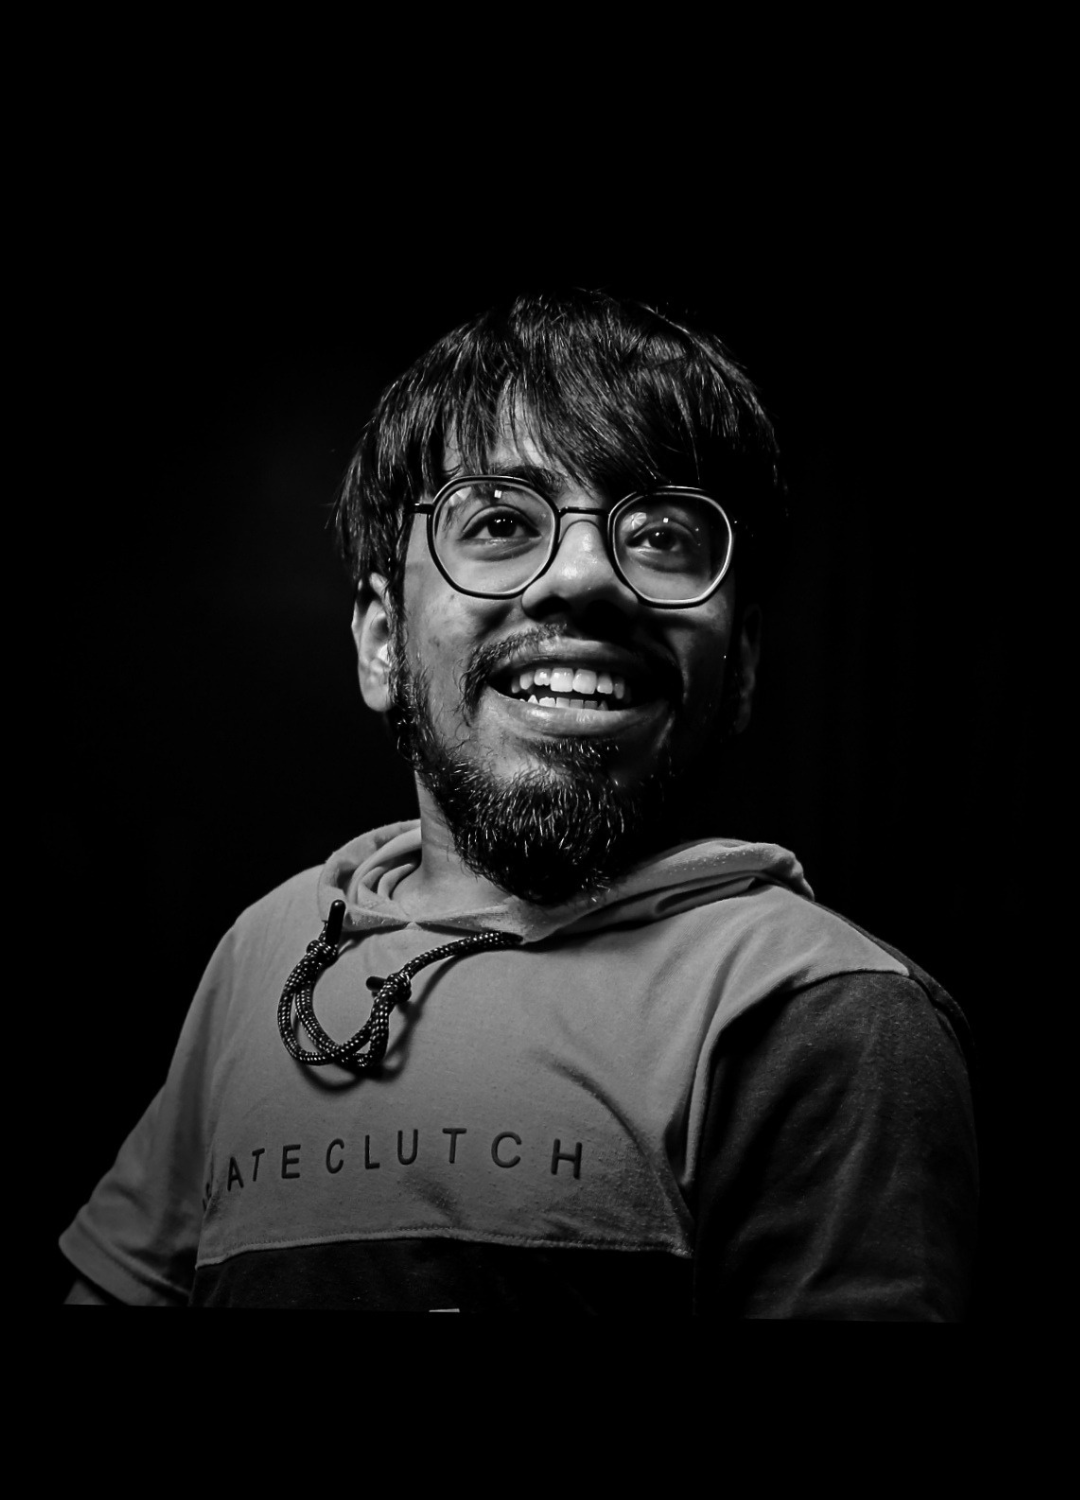
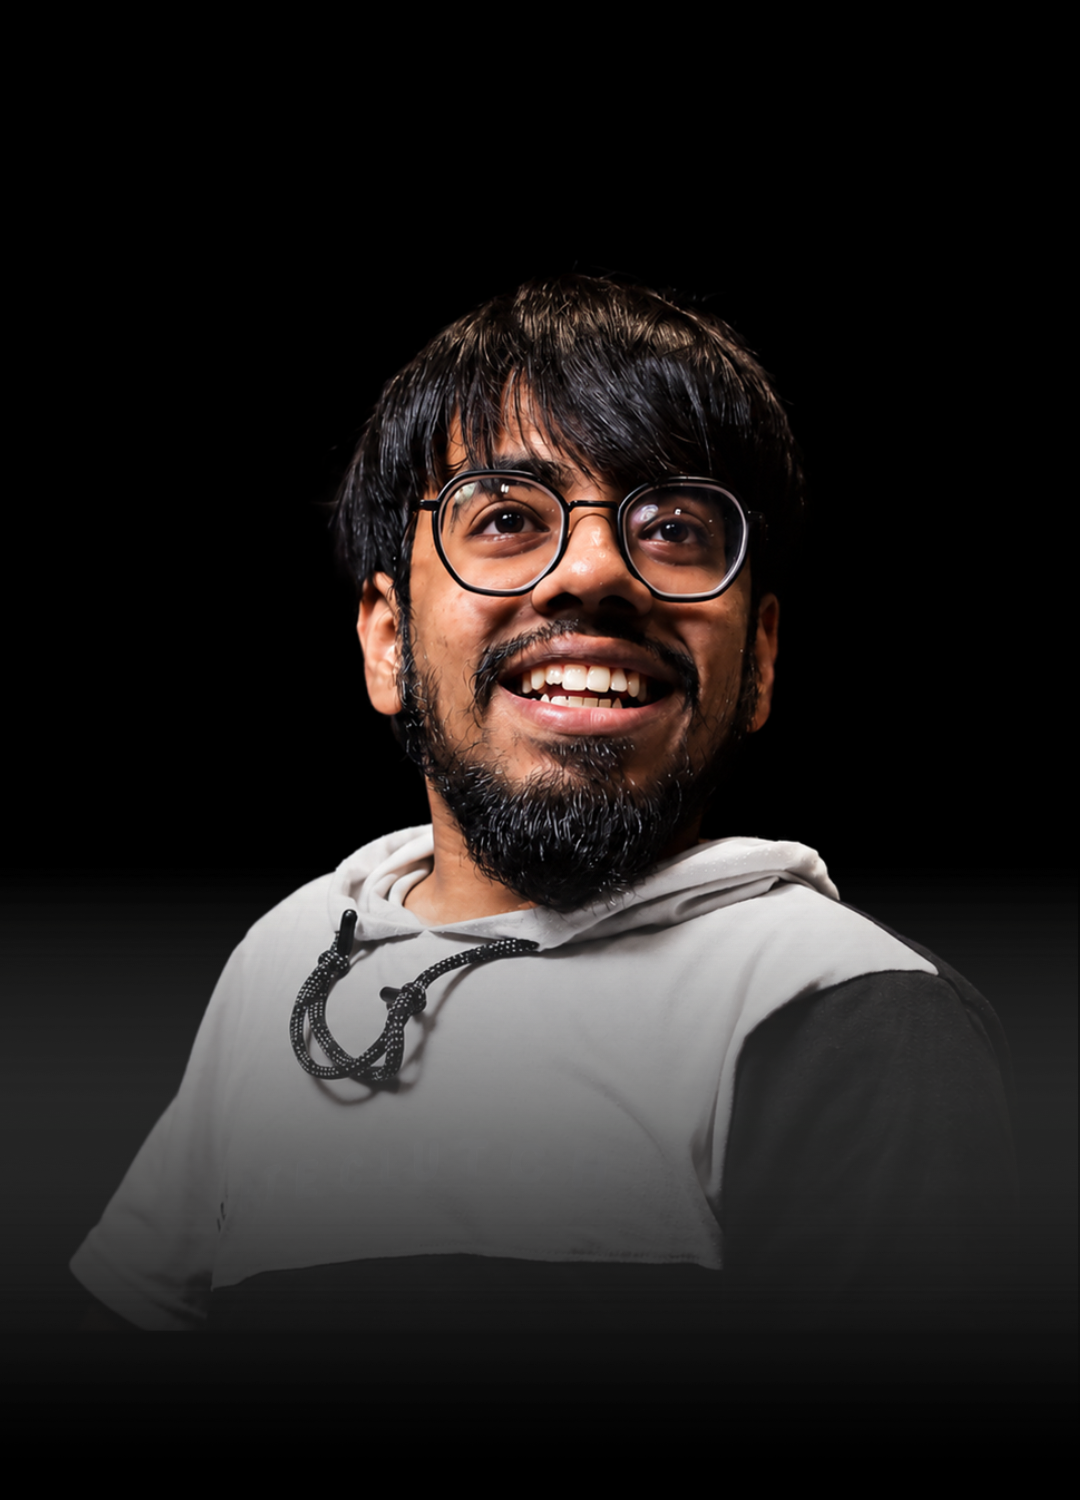
Add new portrait image for Gautham in teal color

Changed region(s): [[0.0, 0.184, 1.0, 0.8893], [0.7639, 0.828, 0.7944, 0.8587]]

diff --git a/src/App.jsx b/src/App.jsx
@@ -46,9 +46,9 @@ function App() {
       <section className="perspective" id="speaking"><div className="section-wrap perspective-grid"><div><p className="section-label">04 / A DIFFERENT WAY OF SEEING</p><h2>What dwarfism<br />gave me.</h2></div><div><p className="lead">It taught me to question the default, notice the overlooked and think from another person&apos;s point of view.</p><p>Being a person with dwarfism in India has meant experiencing both progress and barriers. It made me notice the height of a counter, the design of a stage, the accessibility of a building and the assumptions people make.</p><p>That isn&apos;t a weakness. That&apos;s perspective. And it has become useful far beyond accessibility: in the way I see brands, audiences, stories and people.</p></div></div></section>
       <section className="journey section-wrap"><p className="section-label teal-accent">05 / THE JOURNEY</p><div className="timeline">{milestones.map(([title, description], index) => <article key={title} className="timeline-item"><span>{String(index + 1).padStart(2, '0')}</span><h3>{title}</h3><p>{description}</p></article>)}<article className="timeline-item current"><span>NOW</span><h3>Today</h3><p>Using my story to create, communicate and connect.</p></article></div></section>
       <section className="quote-panel"><div className="section-wrap quote-content"><p className="section-label teal-accent">MY PHILOSOPHY</p><blockquote>&ldquo;I don&apos;t want to be an inspiration.<br /><em className="teal-accent">I want to be useful.</em>&rdquo;</blockquote><p>I would rather someone walk away with a thought, a question, a little more confidence or the feeling: maybe I can take my next step too.</p></div></section>
-      <section className="contact section-wrap" id="contact"><p className="section-label teal-accent">06 / LET&apos;S TALK</p><div className="contact-grid"><div><h2>Have a story<br />worth <em className="teal-accent">telling?</em></h2></div><div><p className="lead">Maybe it&apos;s a brand. Maybe it&apos;s an idea. Maybe it&apos;s a room full of people who need to hear something different.</p><a className="button button-quiet" href="mailto:gautham010off@gmail.com"><Mail size={17} /> Get in touch</a></div></div></section>
+      <section className="contact section-wrap" id="contact"><p className="section-label teal-accent">06 / LET&apos;S TALK</p><div className="contact-grid"><div><h2>Have a story<br />worth <em className="teal-accent">telling?</em></h2></div><div><p className="lead">Maybe it&apos;s a brand. Maybe it&apos;s an idea. Maybe it&apos;s a room full of people who need to hear something different.</p><div className="contact-actions"><a className="button button-quiet" href="mailto:gautham010off@gmail.com"><Mail size={17} /> Get in touch</a><a className="button button-quiet" href="https://www.linkedin.com/in/gauthammangaleshwaran/" target="_blank" rel="noreferrer"><ArrowUpRight size={17} /> LinkedIn</a></div></div></div></section>
     </main>
-    <footer className="site-footer"><div className="footer-top section-wrap"><div><span className="footer-initials">GM</span><p>Gautham Mangaleshwaran C<br /><em>Still becoming.</em></p></div><div className="footer-contact"><a href="mailto:gautham010off@gmail.com">gautham010off@gmail.com</a><a href="tel:+919384116599">+91 93841 16599</a></div></div><div className="footer-bottom section-wrap"><span>Creative Director · Orator · Motivational Speaker</span><span>Different perspective. Powerful voice.</span></div></footer>
+    <footer className="site-footer"><div className="footer-top section-wrap"><div><span className="footer-initials">GM</span><p>Gautham Mangaleshwaran C<br /><em>Still becoming.</em></p></div><div className="footer-contact"><a href="mailto:gautham010off@gmail.com">gautham010off@gmail.com</a><a href="tel:+919384116599">+91 93841 16599</a><a href="https://www.linkedin.com/in/gauthammangaleshwaran/" target="_blank" rel="noreferrer">LinkedIn</a></div></div><div className="footer-bottom section-wrap"><span>Creative Director · Orator · Motivational Speaker</span><span>Different perspective. Powerful voice.</span></div></footer>
   </div>
 }
 

diff --git a/src/App.css b/src/App.css
@@ -1,3 +1,4 @@
+.contact-actions { display: flex; flex-wrap: wrap; gap: 13px; margin-top: 14px; }.contact-actions .button { margin-top: 0; }
 :root { --teal: #fff; --accent-teal: #35b7ac; --ink: #000; --panel: #0d0d0d; --line: rgba(255, 255, 255, .17); --muted: #b8b8b8; --cream: #f5f5f5; --serif: 'Playfair Display', Georgia, serif; --mono: 'DM Mono', monospace; }
 .site-shell { overflow: hidden; }.section-wrap { width: min(1180px, calc(100% - 64px)); margin-inline: auto; }.teal-accent, .lead.teal-accent { color: var(--accent-teal) !important; }.site-header { height: 76px; display: flex; align-items: center; justify-content: space-between; padding: 0 max(32px, calc((100vw - 1180px) / 2)); border-bottom: 1px solid var(--line); background: rgba(7, 19, 17, .94); position: sticky; top: 0; z-index: 20; backdrop-filter: blur(16px); }.wordmark { display: flex; align-items: center; gap: 10px; text-decoration: none; font-size: 10px; letter-spacing: .08em; font-weight: 600; }.wordmark span, .footer-initials { width: 35px; height: 35px; display: grid; place-items: center; border: 1px solid var(--teal); color: var(--teal); font-family: var(--serif); font-size: 17px; }.wordmark small { font-size: 9px; max-width: 120px; line-height: 1.2; }.site-header nav { display: flex; gap: 25px; }.site-header nav a, .header-contact, .text-link { color: var(--muted); font-size: 12px; text-decoration: none; transition: color .2s ease; }.site-header nav a:hover, .header-contact:hover, .text-link:hover { color: var(--teal); }.header-contact { display: inline-flex; align-items: center; gap: 5px; color: var(--teal); }
 .hero { min-height: calc(100svh - 76px); display: grid; grid-template-columns: 1.2fr .9fr .28fr; align-items: center; gap: 36px; position: relative; }.hero::before { content: ''; position: absolute; width: 510px; height: 510px; border: 1px solid rgba(66, 219, 194, .12); border-radius: 50%; right: 11%; top: 50%; transform: translateY(-50%); }.hero-copy { position: relative; z-index: 2; padding-block: 86px; }.kicker, .section-label { color: var(--teal); font: 10px/1.4 var(--mono); letter-spacing: .12em; }.kicker { display: flex; align-items: center; gap: 7px; }h1, h2, h3, p { margin-top: 0; }h1, h2 { font-weight: 500; }h1 { font-size: clamp(52px, 6.4vw, 94px); letter-spacing: 0; line-height: .87; margin: 28px 0 30px; }h1 em, h2 em, blockquote em { font-family: var(--serif); font-weight: 500; color: var(--teal); }.hero-intro { width: min(420px, 100%); color: var(--muted); font-size: 16px; line-height: 1.65; }.hero-actions { display: flex; flex-wrap: wrap; gap: 13px; margin-top: 34px; }.button { display: inline-flex; align-items: center; gap: 9px; padding: 13px 17px; border: 1px solid var(--teal); text-decoration: none; font-size: 12px; font-weight: 600; transition: transform .2s ease, background .2s ease; }.button:hover { transform: translateY(-3px); }.button-solid { background: var(--teal); color: var(--ink); }.button-solid:hover { background: #7eecd9; }.button-quiet { color: var(--teal); }.button-quiet:hover { background: rgba(66, 219, 194, .1); }
